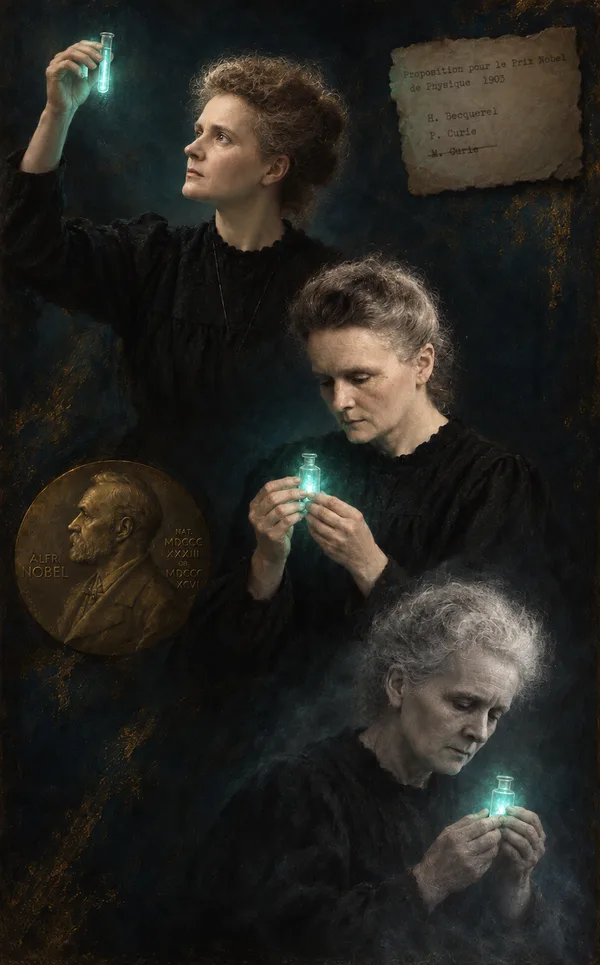
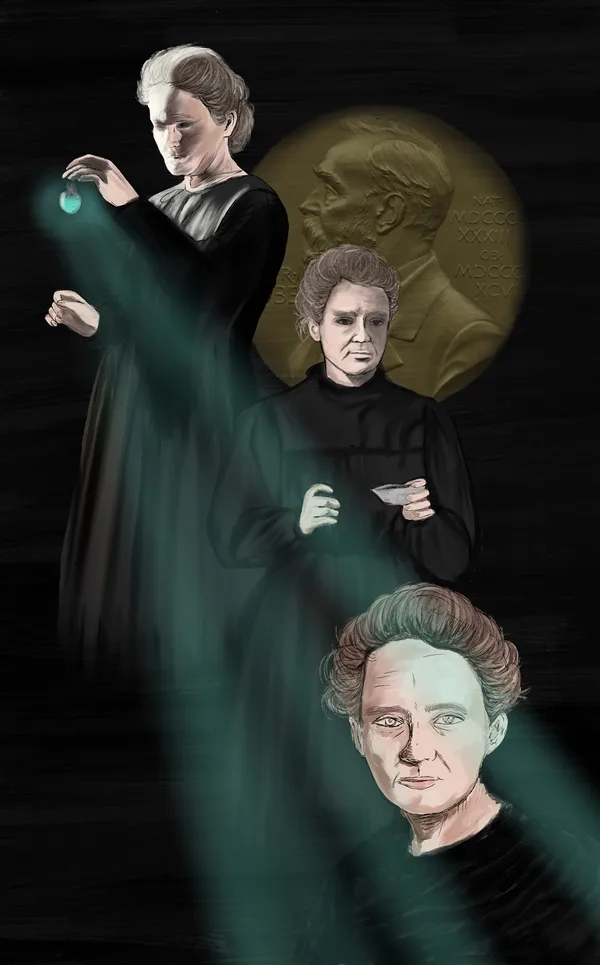
Cambiar a la nueva versión de la obra

diff --git a/index.html b/index.html
@@ -23,7 +23,7 @@
 </head><body>
 <div class="layout">
   <figure class="art">
-    <a href="assets/images/curie.webp" data-artwork aria-label="Ver la obra en grande"><img src="assets/images/curie.webp" srcset="assets/images/curie-600.webp 600w, assets/images/curie.webp 1600w" sizes="(max-width: 860px) 100vw, 50vw" width="1600" height="2574" fetchpriority="high" onerror="document.body.classList.add('no-art')" alt="Marie Curie aparece tres veces sobre un fondo oscuro. Joven, alza un tubo de ensayo que brilla en verde azulado. Madura, mira un frasco luminoso entre las manos. Anciana y canosa, entre una bruma, sigue sosteniendo el frasco encendido. A la izquierda hay una medalla Nobel y arriba a la derecha un papel con la propuesta para el Premio Nobel de Física de 1903, donde el nombre M. Curie aparece tachado."></a>
+    <a href="assets/images/curie.webp" data-artwork aria-label="Ver la obra en grande"><img src="assets/images/curie.webp" srcset="assets/images/curie-600.webp 600w, assets/images/curie.webp 1600w" sizes="(max-width: 860px) 100vw, 50vw" width="1600" height="2574" fetchpriority="high" onerror="document.body.classList.add('no-art')" alt="Marie Curie aparece tres veces sobre un fondo negro. Arriba, ya mayor, sostiene un pequeño frasco que brilla en verde azulado. En el centro, detrás de su figura madura, hay una medalla Nobel dorada. Abajo, su rostro joven mira de frente. Un haz de luz verde atraviesa la escena en diagonal desde el frasco."></a>
   </figure>
 
   <main class="text">
